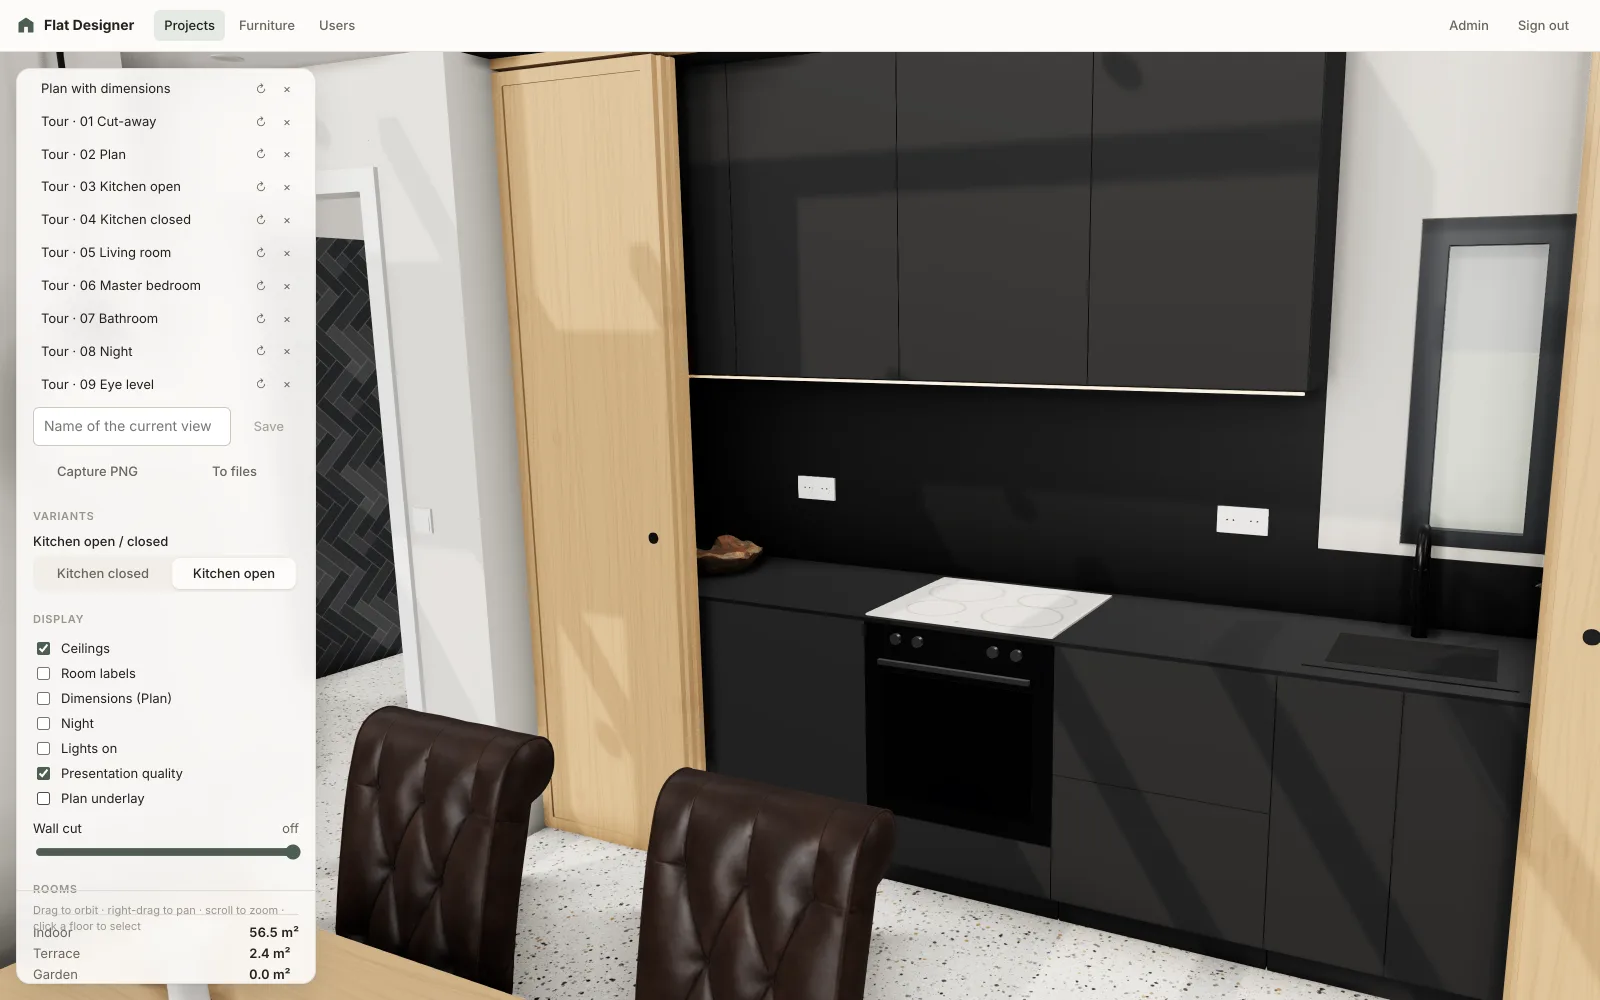
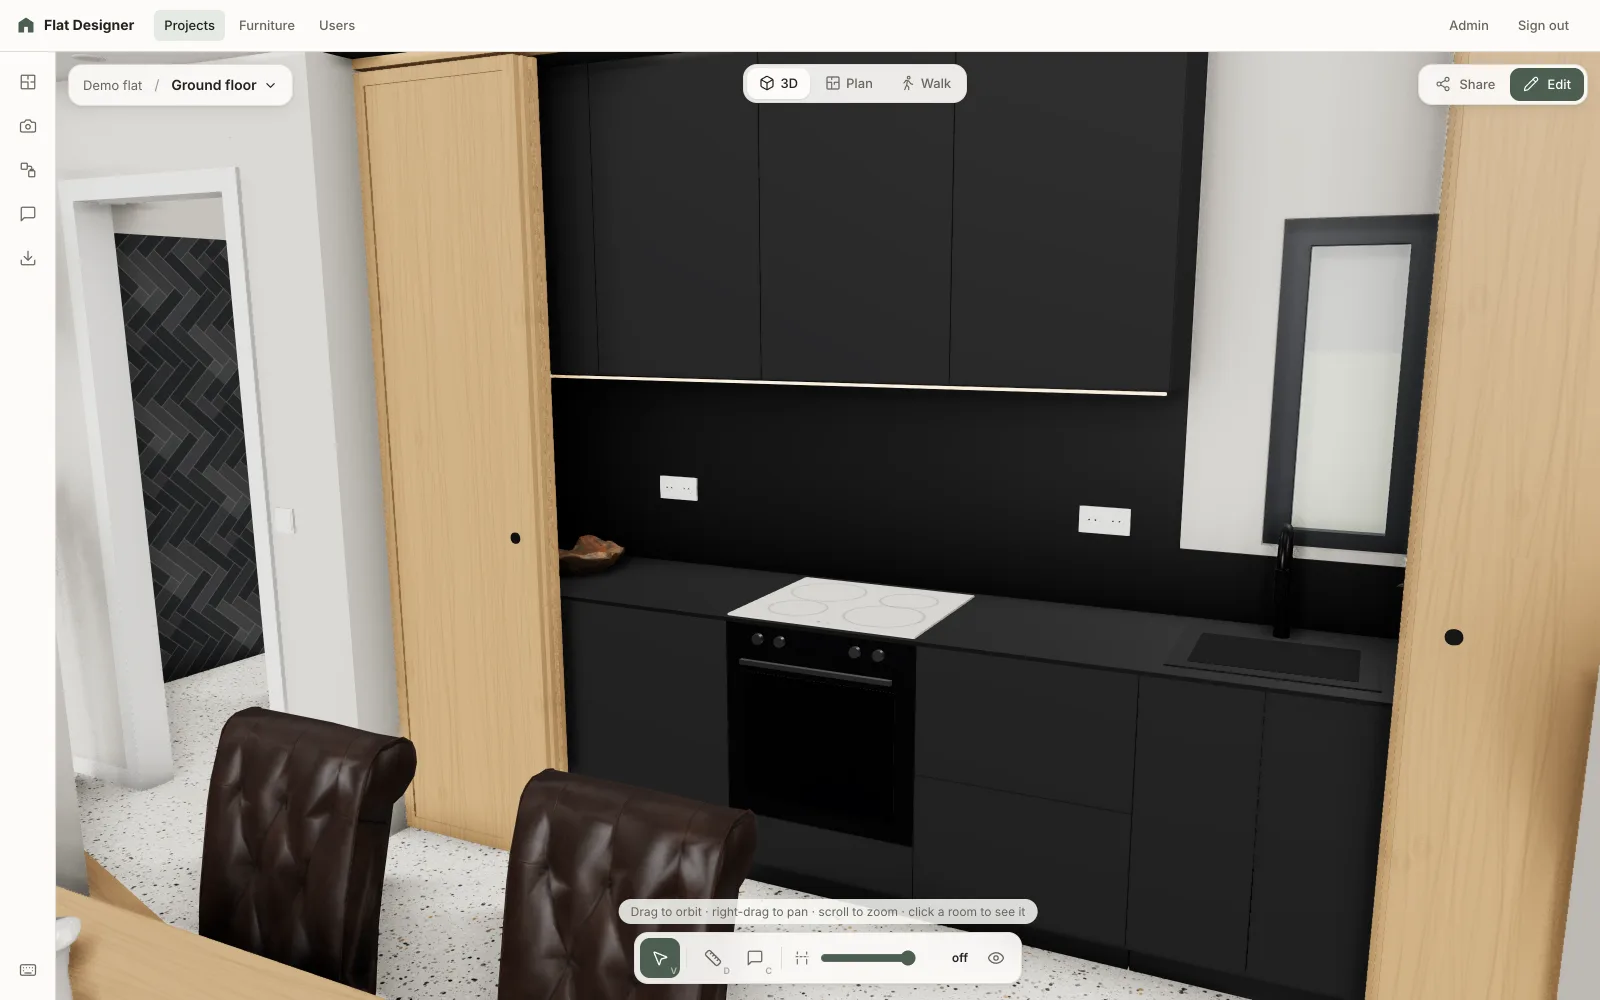
Retake the README screenshots with the new viewer layout
- The demo flat's tour views, the editor, the pages around the viewer
  and the demo house's tour views, retaken with the floating layout
  (FD-107).
- screenshots.mjs: the plan underlay is hidden through the Display
  popover (waiting for it), the editor shot opens the Rooms panel, and
  no tooltip or focus ring is left from the clicks.
- make screenshots / make benchmark take the login from
  SCREENSHOTS_EMAIL / SCREENSHOTS_PASSWORD in .env when EMAIL /
  PASSWORD are not given, and no longer echo it.

diff --git a/CLAUDE.md b/CLAUDE.md
@@ -728,10 +728,12 @@ format is the text in `FurnitureTools::Format`.
 - Capture PNG: `ViewerEngine.capture()` renders 1600 × 1000 at 2× in the presentation quality, off the visible size
   and without the panel inset, and downloads it or saves it as a project file. Room labels are HTML, so they are not
   in it.
-- `make screenshots PROJECT=… EMAIL=… PASSWORD=… [VIEWS=… ROOM=…]` (`frontend/scripts/screenshots.mjs`, Playwright)
-  writes the saved views of the project whose name starts with `VIEWS`, the editor with `ROOM`'s inspector open, the
-  project page, cut list, furniture library, furniture editor and a share link to `docs/screenshots/`, with the app's
-  UI and the plan underlay hidden; `VIEWS_ONLY=1` writes the views alone. With `cwebp` on the PATH it saves WebP 1600 px
+- `make screenshots PROJECT=… [EMAIL=… PASSWORD=…] [VIEWS=… ROOM=…]` (`frontend/scripts/screenshots.mjs`, Playwright;
+  the login defaults to `SCREENSHOTS_EMAIL` / `SCREENSHOTS_PASSWORD` from `.env`, as for `make benchmark`, and the
+  recipes are silent so it is not printed) writes the saved views of the project whose name starts with `VIEWS`, the
+  editor with `ROOM`'s inspector open, the project page, cut list, furniture library, furniture editor and a share link
+  to `docs/screenshots/`, with the plan underlay hidden (Display popover) and no tooltip or focus left from its clicks;
+  `VIEWS_ONLY=1` writes the views alone. With `cwebp` on the PATH it saves WebP 1600 px
   wide. The README tour uses the demo flat's "Tour · …" views and the demo house's "House tour · …" views (project 13
   locally, `VIEWS_ONLY=1`), plus its first floor's plan PDF and section B–B rendered from the exports
   (`house-plan.webp`, `house-section.webp`); keep the unlicensed poster and plan, and the house's source drawings and
